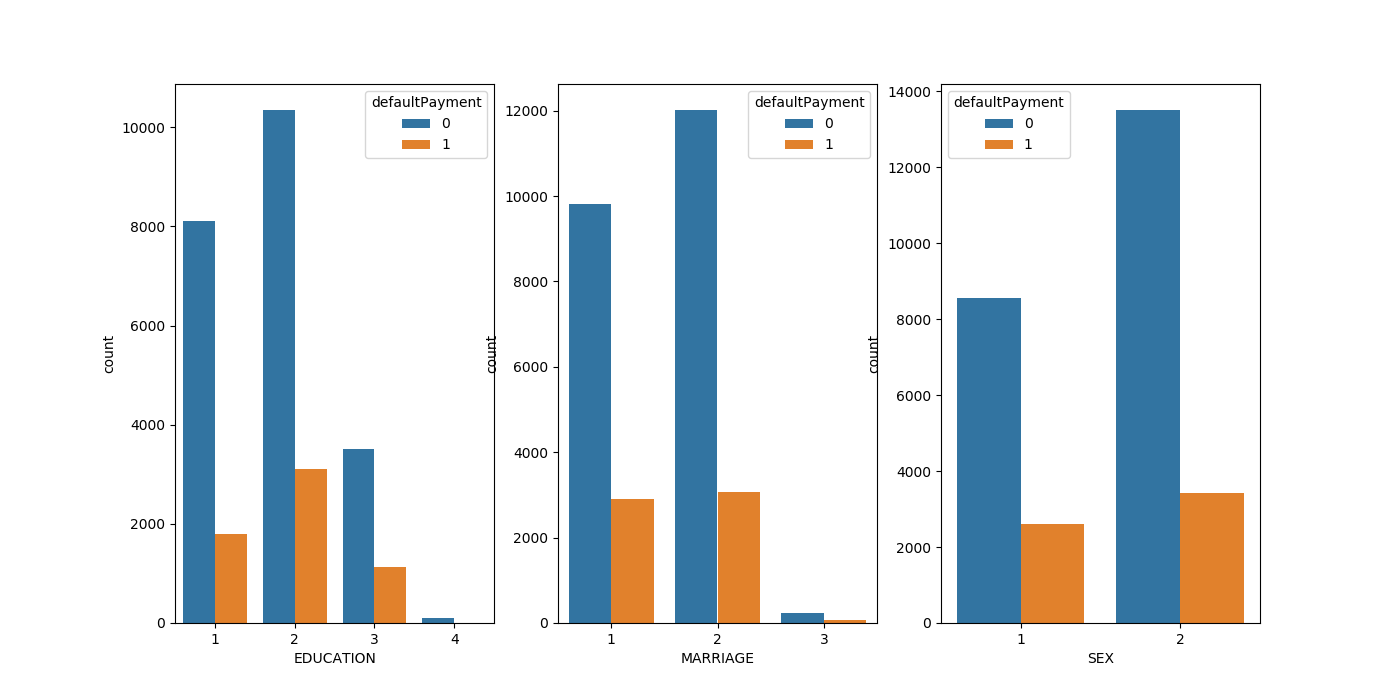
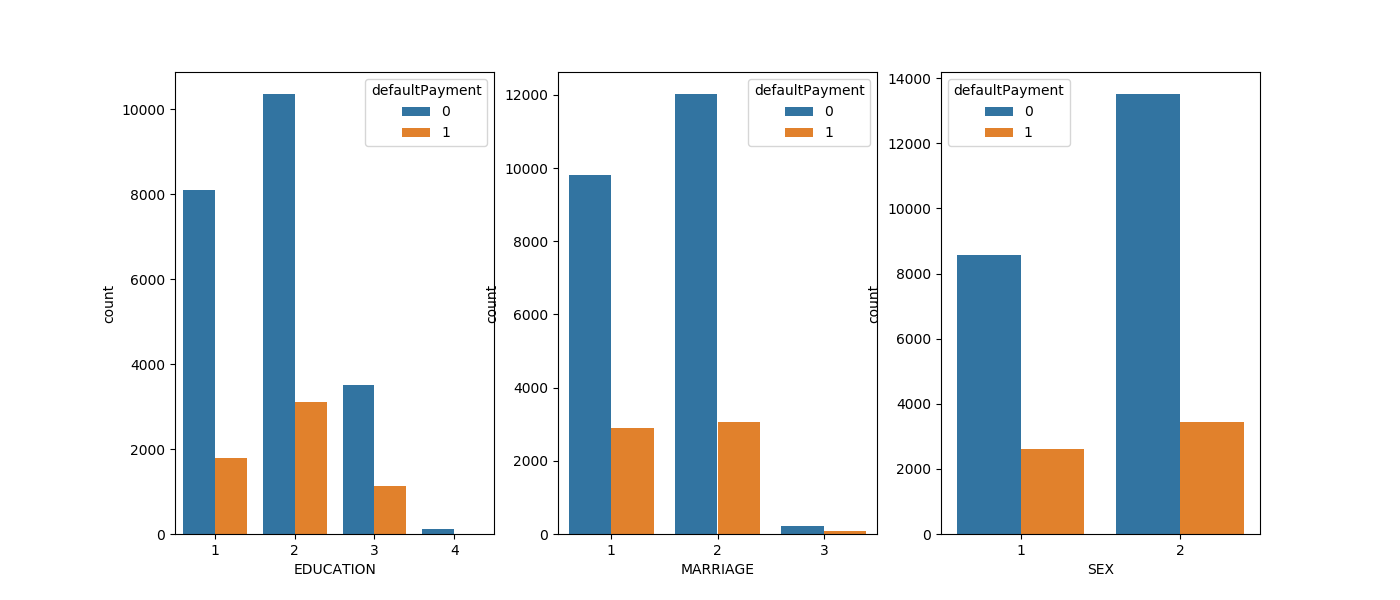
added graphs

diff --git a/data_jolynde.py b/data_jolynde.py
@@ -60,14 +60,14 @@ df = df.drop(df[(df.MARRIAGE == 0)].index)
 
 
 # Plot the variables
-fig1, ax = plt.subplots(figsize = (14, 7), ncols = 3)
+fig1, ax = plt.subplots(figsize = (14, 6), ncols = 3)
 sns.countplot(x = df['EDUCATION'], hue = df['defaultPayment'], data = df, ax = ax[0])
 sns.countplot(x = df['MARRIAGE'], hue = df['defaultPayment'], data = df, ax = ax[1])
 sns.countplot(x = df['SEX'], hue = df['defaultPayment'], data = df, ax = ax[2])
 fig1.savefig('./Images/Education_marriage_sex_plot.png')
 #plt.show()
 
-fig2, ax = plt.subplots(figsize=(10,5), ncols=3, nrows=2)
+fig2, ax = plt.subplots(figsize=(10,8), ncols=3, nrows=2)
 sns.countplot(x = df['PAY_0'], hue = df['defaultPayment'], data = df, ax = ax[0][0])
 sns.countplot(x = df['PAY_2'], hue = df['defaultPayment'], data = df, ax = ax[0][1])
 sns.countplot(x = df['PAY_3'], hue = df['defaultPayment'], data = df, ax = ax[0][2])
@@ -166,9 +166,11 @@ g4.savefig('./Images/pairplot_PAY_AMT_out.png')
 """
 
 # Correlation matrix
-correlation_matrix = df.loc[:, df.columns != 'defaultPayment'].corr().round(1)
+#correlation_matrix = df.loc[:, df.columns != 'defaultPayment'].corr().round(1)
+correlation_matrix = df.corr().round(1)
+fig6, ax = plt.subplots(figsize=(15,15))
 sns.heatmap(data=correlation_matrix, annot=True)
-plt.savefig('./Images/corr_matrix.png')
+fig6.savefig('./Images/corr_matrix.png')
 #plt.show()
 
 
@@ -213,7 +215,7 @@ Y_train_onehot, Y_test_onehot = onehotencoder.fit_transform(ytrain), onehotencod
 Y_train_onehot = Y_train_onehot.toarray()
 Y_test_onehot = Y_test_onehot.toarray()
 
-
+"""
 ##### NEURAL NETWORK
 
 
@@ -235,7 +237,7 @@ nn.train(Xtrain_pca,Y_train_onehot, eta = 0.01, epochs = 40)
 print('acc_pca:', accuracy_score(ytest, nn.predict(Xtest_pca))
 
 
-
+"""
 #### LOGISTIC REGRESSION
 
 clf = classes_jolynde.logReg_scikit()
@@ -250,7 +252,6 @@ _lambda = 160
 # accuracy score
 clf.fit(Xtrain, ytrain)
 ypred = clf.predict(Xtest)
-pdb.set_trace()
 print("Accuracy score:", accuracy_score(ytest, ypred))
 
 clf_pca.fit(Xtrain_pca, ytrain)
@@ -278,7 +279,7 @@ print(classification_report(ytest, nn_sk_pred))
 
 pred_prob = nn_sk.predict(Xtest)[:, 1]
 print(pred_prob)
-lift_chart(ytest, pred_prob, plot = True)
+#lift_chart(ytest, pred_prob, plot = True)
 
 labels = ['Class 0', 'Class 1']
 
